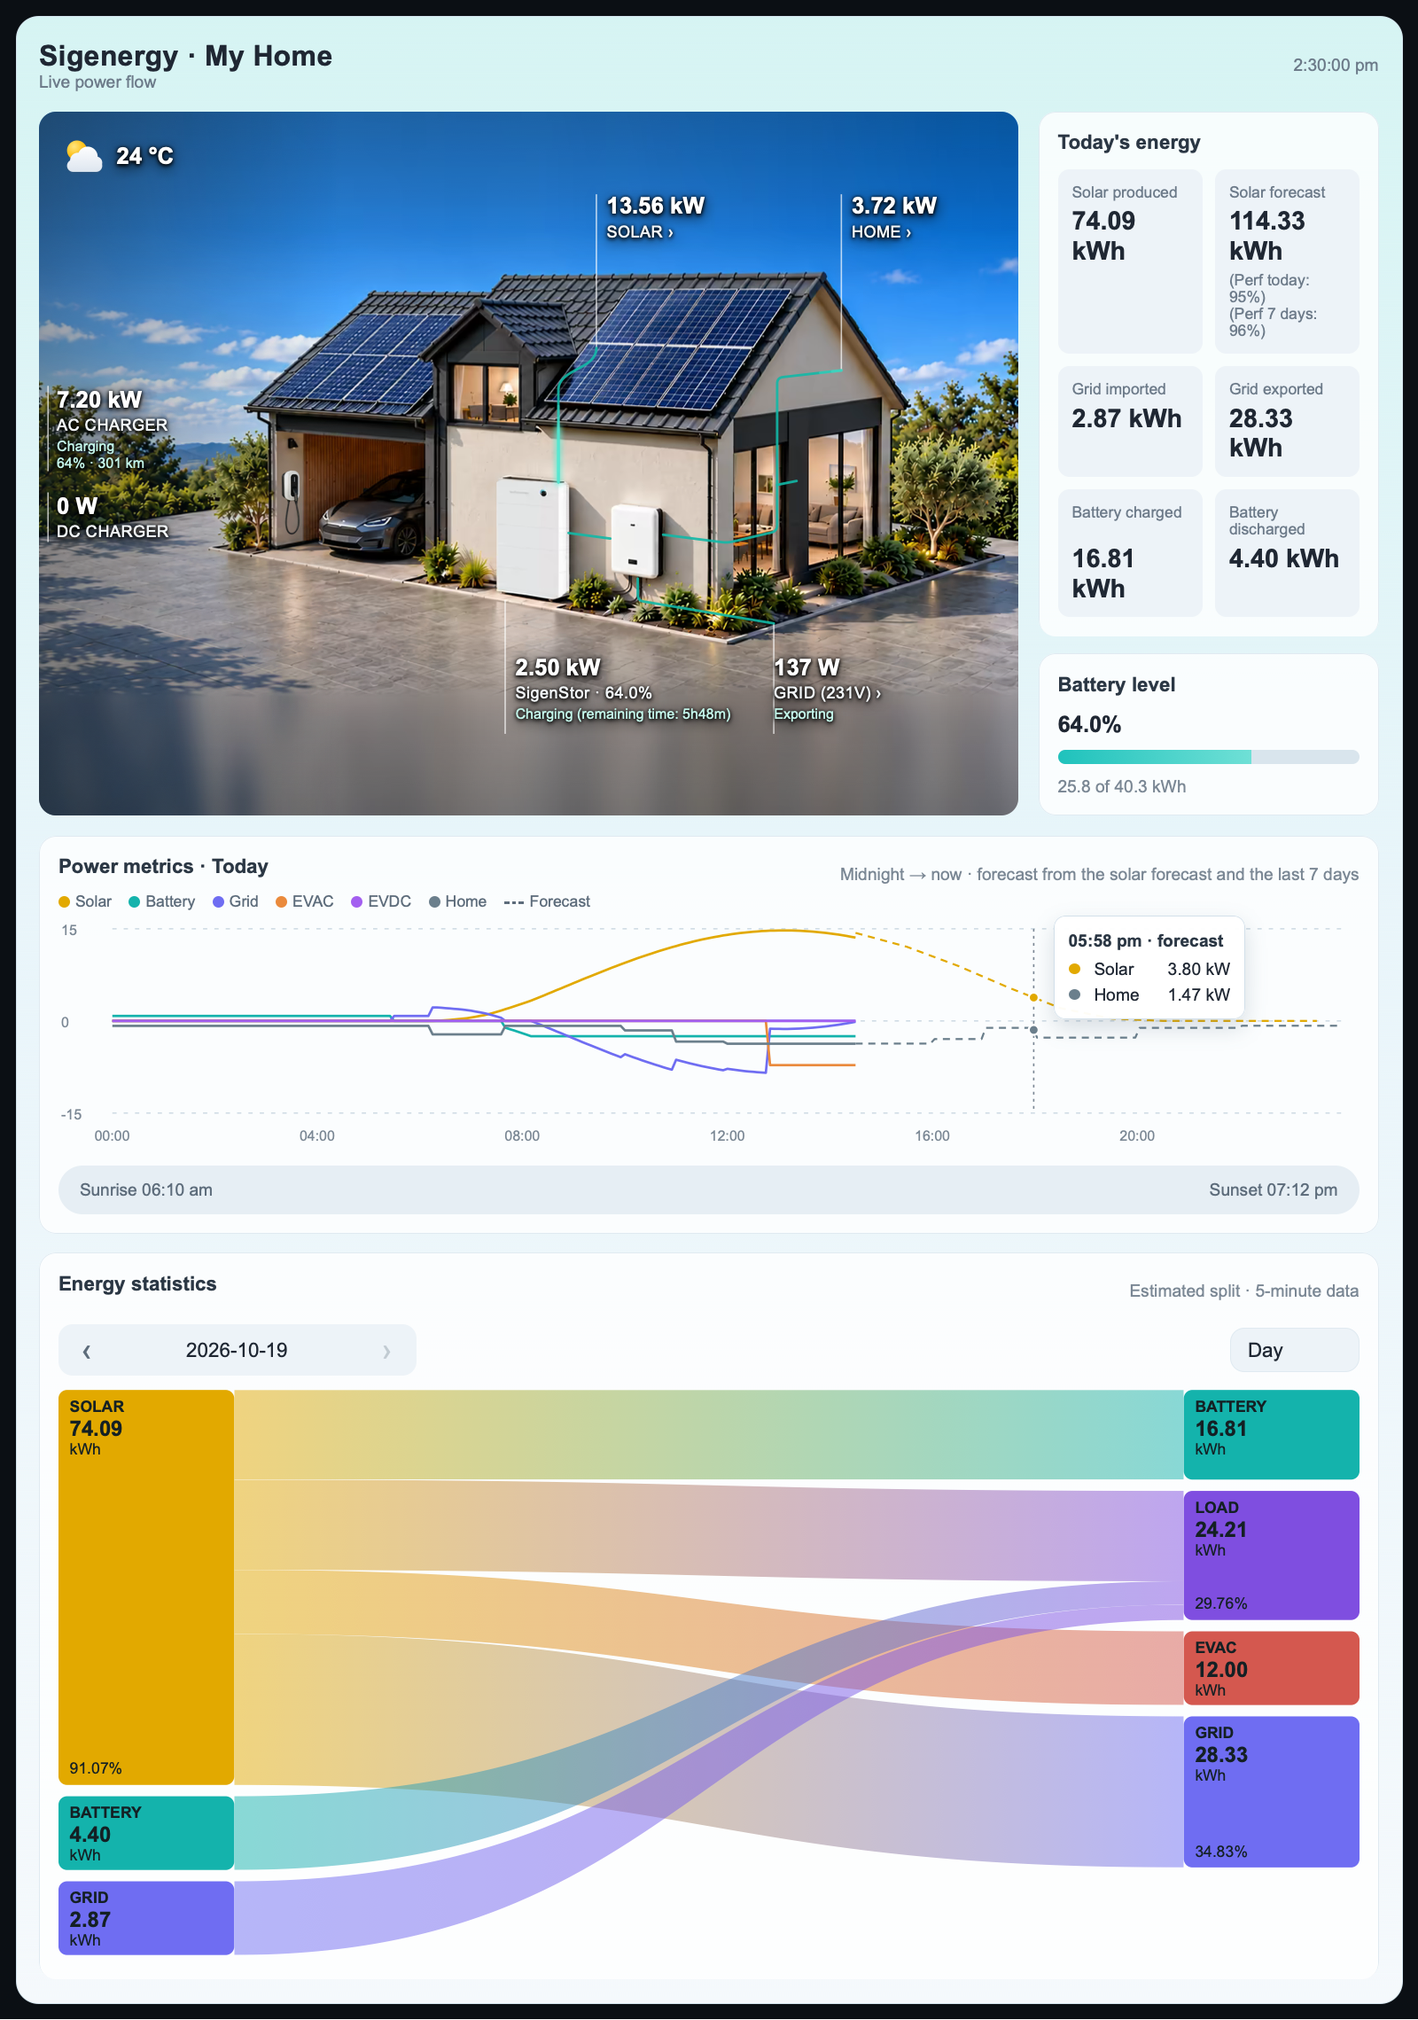
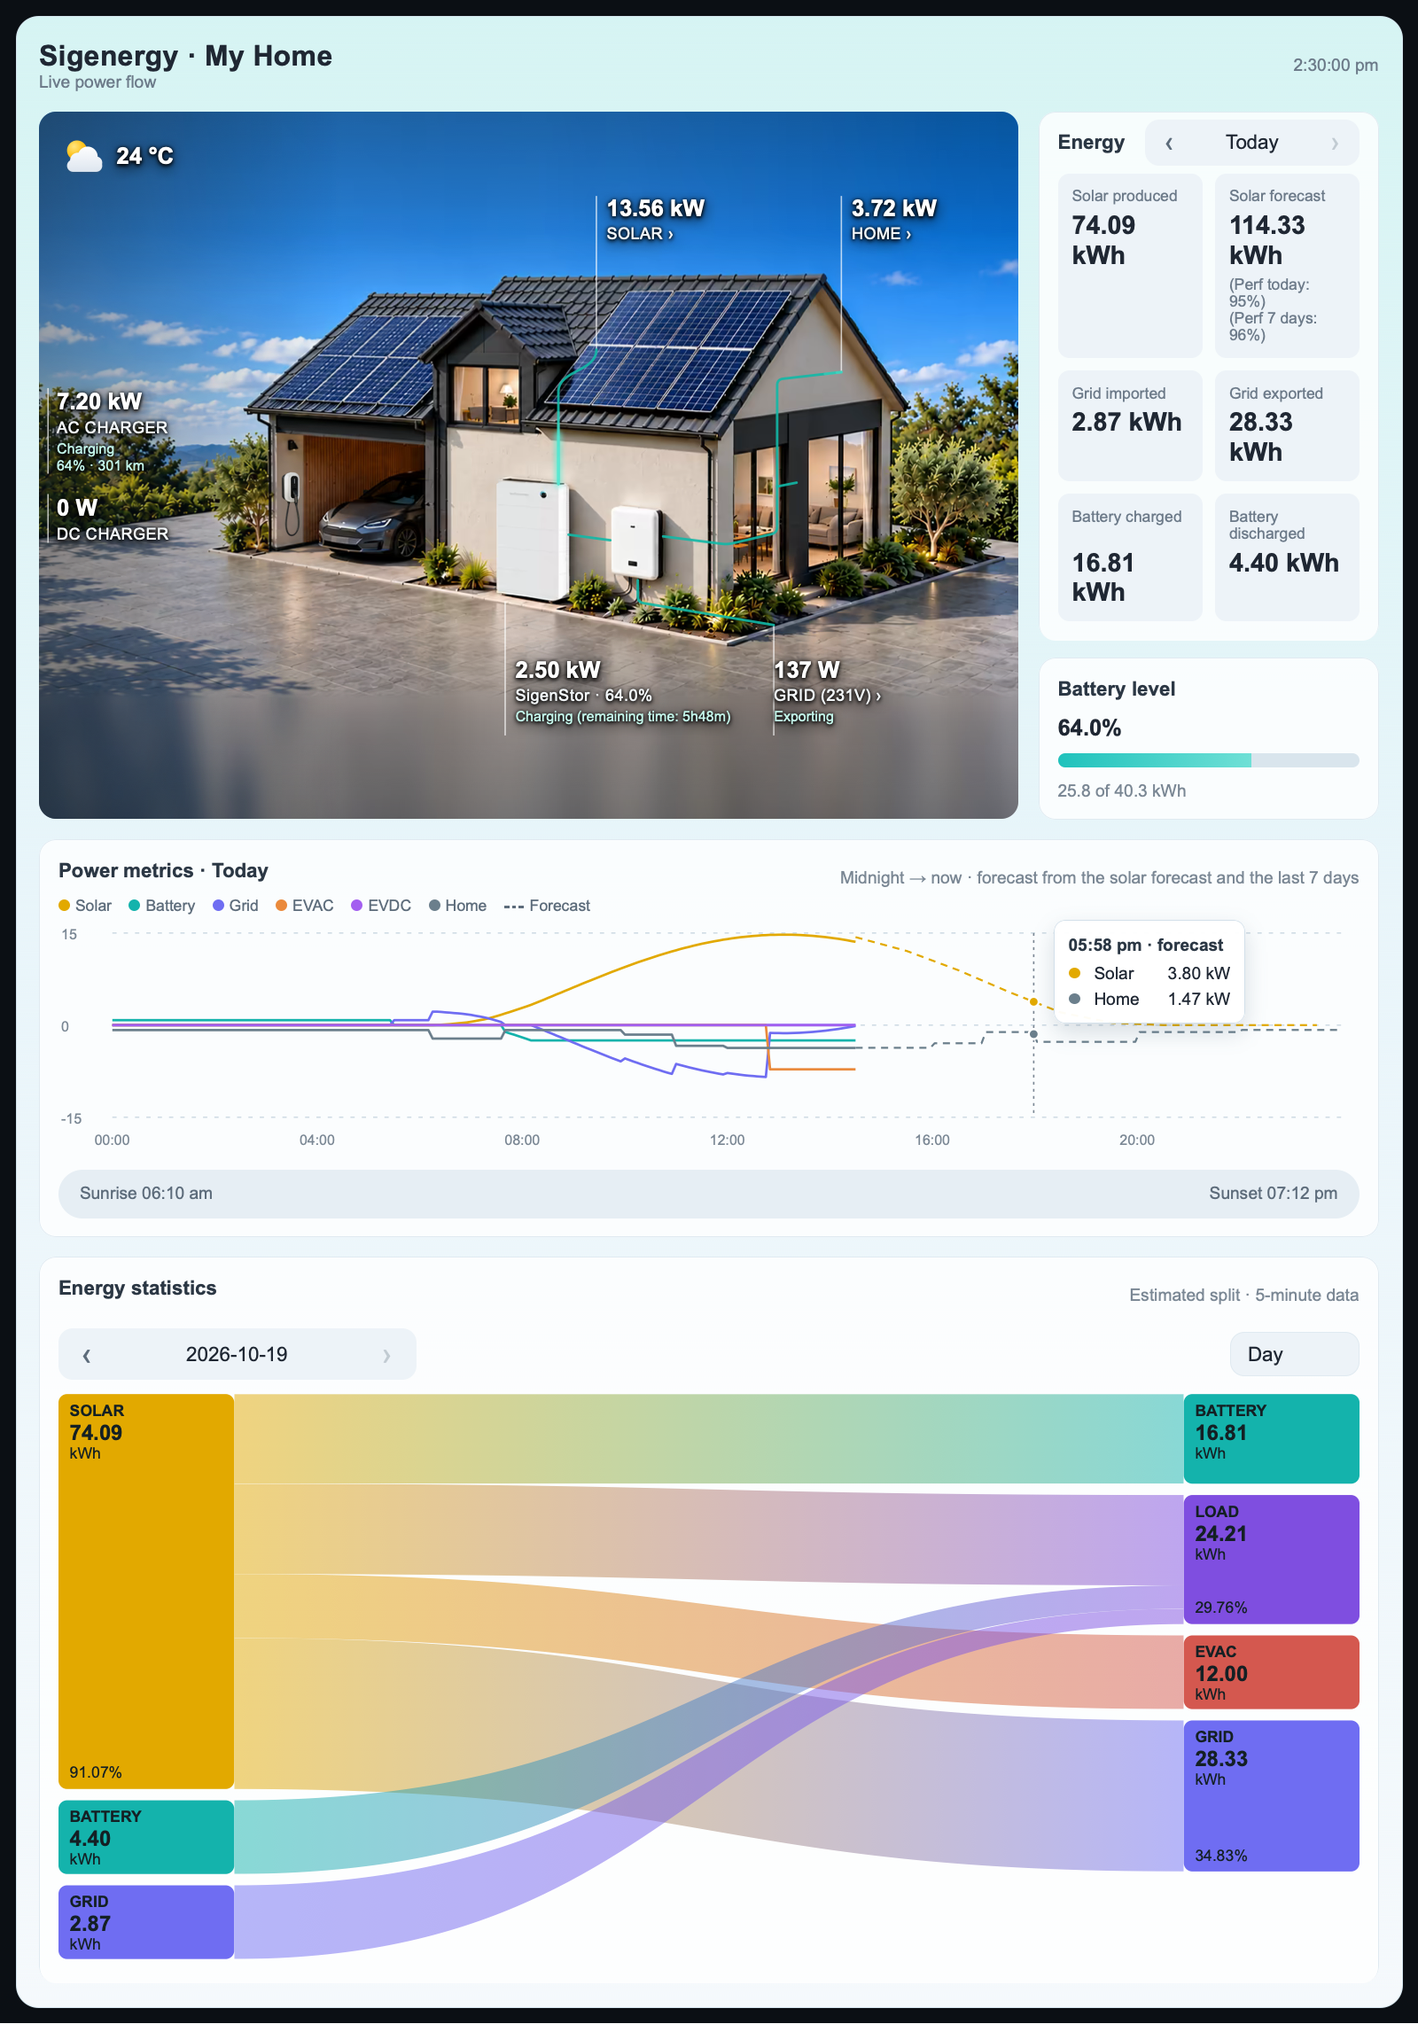
Browse previous days in the daily energy panel
The daily energy panel gets the same ‹ date › control as Energy statistics,
on the title's line; the title becomes "Energy", since the desktop sidebar is
too narrow for "Today's energy" and the control side by side. The control
reads "Today" for today and the date otherwise; its label keeps a date's
width, so the arrows don't move.

On a past day each tile shows the sum of the recorder's hourly statistics of
its own daily sensor over that day, the solar total adding the third-party
inverter's as today's does. The Solar forecast tile shows the last forecast
recorded that day and that day's performance against it, as long as the
recorder still holds the forecast entity's history; it can't be tapped then,
its chart covering today only. The date is independent of Energy statistics'.

Refresh the main screenshots for the new header.

diff --git a/sigenergy-flow-card.js b/sigenergy-flow-card.js
@@ -482,6 +482,7 @@ class SigenergyFlowCard extends HTMLElement {
         const today = new Date().toLocaleDateString('en-CA', { timeZone: this._zone });
         if (!previous || this._day !== today) {
             this._day = today;
+            this._dayControls();
             this._loadHistory();
             this._loadForecast();
             this._loadForecastWeek();
@@ -546,8 +547,9 @@ class SigenergyFlowCard extends HTMLElement {
       /* Each row of tiles is five tracks: space, label, value, notes, space, then the gap to the next row. The tiles share
          them (subgrid), so labels and values line up across a row however they wrap. */
       .stats{display:grid;grid-template-columns:repeat(2,minmax(0,1fr));column-gap:9px;grid-template-rows:repeat(3,minmax(10px,1fr) auto auto auto minmax(10px,1fr) 9px);margin-bottom:-9px}
+      .dayhead{display:flex;flex-wrap:wrap;align-items:center;justify-content:space-between;gap:6px 8px;margin:-8px 0 6px}.dayhead h3{margin:0}.daynav{padding:2px}.statnav.daynav span{min-width:5.5em;padding:0 2px}.statnav.daynav button{width:28px;height:26px;line-height:26px;font-size:18px}
       .sidebar.fill>.panel:first-child{flex:1;display:flex;flex-direction:column}.sidebar.fill .stats{flex:1}.stat.wide{grid-column:1/-1}
-      .stat{all:unset;box-sizing:border-box;background:var(--tile);border-radius:8px;padding:10px;cursor:pointer;transition:background .2s}.stat:hover{background:var(--tile-hover)}.stat:focus-visible{outline:2px solid #71d3d1}.stat small{font-size:11px;color:var(--tile-sub);display:block}.stat b{font-size:18px;display:block;margin-top:4px}#forecastPerf{margin-top:4px}#forecastPerf span{display:block}
+      .stat{all:unset;box-sizing:border-box;background:var(--tile);border-radius:8px;padding:10px;cursor:pointer;transition:background .2s}.stat:hover{background:var(--tile-hover)}.stat[disabled]{cursor:default}.stat[disabled]:hover{background:var(--tile)}.stat:focus-visible{outline:2px solid #71d3d1}.stat small{font-size:11px;color:var(--tile-sub);display:block}.stat b{font-size:18px;display:block;margin-top:4px}#forecastPerf{margin-top:4px}#forecastPerf span{display:block}
       .stat{grid-row-end:span 5;display:grid;grid-template-rows:minmax(10px,1fr) auto auto auto minmax(10px,1fr);grid-template-rows:subgrid;padding-block:0}
       .stat>small:first-child{grid-row:2}.stat>b{grid-row:3}#forecastPerf{grid-row:4}
       .link{all:unset;box-sizing:border-box;display:block;width:100%;cursor:pointer;border-radius:6px}.link:hover{filter:brightness(1.2)}.link:focus-visible{outline:2px solid #71d3d1}
@@ -628,7 +630,7 @@ class SigenergyFlowCard extends HTMLElement {
           <div class="node" id="dcNode"><button id="dcButton" title="Adjust DC charging power limit"><strong id="dc">—</strong><small>DC CHARGER<span id="dcGear"> ⚙</span></small><em id="dcSoc"></em><em id="dcLifetime" class="lifetime stack"></em></button></div>
         </div>
       </div></section><aside class="sidebar fill">
-        <section class="panel"><h3>Today's energy</h3><div class="stats"${battery ? '' : ' style="grid-template-rows:repeat(2,minmax(10px,1fr) auto auto auto minmax(10px,1fr) 9px)"'}>
+        <section class="panel"><div class="dayhead"><h3>Energy</h3><div class="statnav daynav"><button id="dayPrev" title="Previous day" aria-label="Previous day">‹</button><span id="dayDate">—</span><button id="dayNext" title="Next day" aria-label="Next day">›</button></div></div><div class="stats"${battery ? '' : ' style="grid-template-rows:repeat(2,minmax(10px,1fr) auto auto auto minmax(10px,1fr) 9px)"'}>
           ${DAILY_TILES.filter(([, key]) => battery || !BATTERY_KEYS.has(key)).map(([id, , label], i) => `<button class="stat" style="grid-row-start:${6 * Math.floor((i && i + 1) / 2) + 1}"><small>${label}</small><b id="${id}">—</b></button>`
               + (id === 'dayPv' ? '<button class="stat" id="forecastStat" style="grid-row-start:1" hidden><small>Solar forecast</small><b id="dayForecast">—</b><small id="forecastPerf"></small></button>' : '')).join('')}
         </div></section>${battery ? `<section class="panel"><h3>Battery level</h3><button class="link" id="socLevel"><strong id="socLarge">—</strong><div class="socbar"><div class="socfill" id="socFill"></div></div></button><button class="link muted" id="capacity" title="Show stored energy today"><span id="capacityText"></span></button></section>` : ''}
@@ -748,6 +750,7 @@ class SigenergyFlowCard extends HTMLElement {
         this._id('weatherButton').addEventListener('click', () => this._moreInfo(this._ent('weather')));
         this._weatherKey = null;
         this._wireStatistics();
+        this._wireDays();
         if (this._flowStates) for (const id of Object.keys(this._flowStates)) this._applyFlowClass(id);
     }
     _observeCharts() {
@@ -1235,12 +1238,23 @@ class SigenergyFlowCard extends HTMLElement {
             const live = this._num(recorded.id), points = recorded.points;
             if (live !== null && live !== points[points.length - 1].v) points.push({ t: now, v: live });
         }
+        const tile = this._id('forecastStat'), past = this._past;
+        // A past day: its forecast and its production against it; the dialog charts today only.
+        tile.disabled = !!past;
+        if (past) {
+            const actual = past.values?.get('dayPv') ?? null, forecast = past.forecast ?? null;
+            tile.hidden = forecast === null;
+            this._id('dayPv').closest('.stat').classList.toggle('wide', tile.hidden);
+            if (tile.hidden) return;
+            this._text('dayForecast', this._energy(forecast));
+            this._parts('forecastPerf', [actual !== null && forecast >= .1 ? `(Perf: ${Math.round(actual / forecast * 100)}%)` : '']);
+            return;
+        }
         let total = this._scaled(id);
         const expected = id ? this._forecastUpTo(now) : null;
         if (id && hours) total ??= [...hours.values()].reduce((a, b) => a + b, 0);
         const average = id && total === null ? this._pvWeekAverage ?? null : null;
         total ??= average;
-        const tile = this._id('forecastStat');
         tile.hidden = total === null;
         this._id('dayPv').closest('.stat').classList.toggle('wide', tile.hidden);
         if (tile.hidden) return;
@@ -1397,8 +1411,8 @@ class SigenergyFlowCard extends HTMLElement {
         }));
     }
     // Recorded states of [ids] from [start] (today's midnight in Home Assistant's time zone) until now.
-    async _history(ids, start = zoneMidnight(Date.now(), this._zone)) {
-        const query = `history/period/${encodeURIComponent(start.toISOString())}?filter_entity_id=${encodeURIComponent(ids.join(','))}&end_time=${encodeURIComponent(new Date().toISOString())}&minimal_response&no_attributes`;
+    async _history(ids, start = zoneMidnight(Date.now(), this._zone), end = new Date()) {
+        const query = `history/period/${encodeURIComponent(start.toISOString())}?filter_entity_id=${encodeURIComponent(ids.join(','))}&end_time=${encodeURIComponent(end.toISOString())}&minimal_response&no_attributes`;
         return { start: start.getTime(), data: await this._hass.callApi('GET', query) };
     }
     // A dialog's chart of today's history and its status: [toSeries] turns each id's points into the chart's series.
@@ -1608,15 +1622,7 @@ class SigenergyFlowCard extends HTMLElement {
         const dcState = dc === null ? '' : dc > 0.025 ? 'Charging' : dc < -0.025 ? 'Discharging' : '';
         const dcSocText = dcsoc === null || (dcsoc === 0 && !dcState) ? '' : `Vehicle SOC ${dcsoc.toFixed(0)}%`;
         this._parts('dcSoc', [dcState, dcSocText]);
-        for (const [el, key, , third] of DAILY_TILES) {
-            const id = e(key), tile = this._id(el)?.closest('.stat');
-            if (!tile) continue;
-            tile.hidden = !id;
-            if (!id) continue;
-            this._text(el, this._energy(third ? this._pvTotal(key, third) : this._scaled(id)));
-            tile.dataset.entity = id;
-        }
-        this._updateForecastTile();
+        this._updateDaily();
         if (this.config.battery_present) {
             this._id('socLevel').dataset.entity = socEntity ?? '';
             this._socEntity = socEntity;
@@ -1717,6 +1723,63 @@ class SigenergyFlowCard extends HTMLElement {
         });
         this._statControls();
         this._drawStat();
+    }
+    // Today's energy shows today live, or a past day: [_past.date] is its midnight, null for today.
+    _wireDays() {
+        const step = direction => {
+            const today = zoneMidnight(Date.now(), this._zone), date = statStep('Day', this._past?.date ?? today, direction, this._zone);
+            this._past = date < today ? { date } : null;
+            this._dayControls();
+            this._updateDaily();
+            this._loadDay();
+        };
+        this._id('dayPrev').addEventListener('click', () => step(-1));
+        this._id('dayNext').addEventListener('click', () => step(1));
+        this._dayControls();
+    }
+    _dayControls() {
+        const past = this._past ??= null;
+        this._text('dayDate', past ? statLabel('Day', past.date, this._zone) : 'Today');
+        this._id('dayNext').disabled = !past;
+    }
+    _updateDaily() {
+        const past = this._past;
+        for (const [el, key, , third] of DAILY_TILES) {
+            const id = this._ent(key), tile = this._id(el)?.closest('.stat');
+            if (!tile) continue;
+            tile.hidden = !id;
+            if (!id) continue;
+            this._text(el, this._energy(past ? past.values?.get(el) ?? null : third ? this._pvTotal(key, third) : this._scaled(id)));
+            tile.dataset.entity = id;
+        }
+        this._updateForecastTile();
+    }
+    // A past day's totals: each tile's daily counter's recorder statistics over the day (the solar total adds the
+    // third-party inverter's, as today's does), and the day's solar forecast, the last state its entity recorded that day.
+    async _loadDay() {
+        const past = this._past;
+        if (!past || !this._hass) return;
+        const [start, end] = statWindow('Day', past.date, this._zone), forecastId = this._ent('solar_forecast_today');
+        const tiles = DAILY_TILES.map(([el, key, , third]) => [el, (third ? this._pvSources(key, third) : [this._ent(key)]).filter(id => id && this._has(id))]);
+        const ids = [...new Set(tiles.flatMap(([, list]) => list))];
+        try {
+            const [statistics, history] = await Promise.all([
+                ids.length ? this._hass.callWS({ type: 'recorder/statistics_during_period', start_time: start.toISOString(), end_time: end.toISOString(), statistic_ids: ids, period: 'hour', types: ['change'] }) : {},
+                forecastId && this._has(forecastId) ? this._history([forecastId], start, end) : null,
+            ]);
+            if (past !== this._past) return;
+            const change = id => statistics?.[id]?.length ? statistics[id].reduce((sum, row) => sum + Math.max(0, Number(row.change) || 0), 0) * this._factor(id) : null;
+            past.values = new Map(tiles.map(([el, list]) => {
+                const [own, ...rest] = list.map(change);
+                return [el, own === null || own === undefined ? null : rest.reduce((sum, v) => sum + (v ?? 0), own)];
+            }));
+            const points = history ? this._series(history.data, [forecastId])[0].filter(p => p.t < end.getTime()) : [];
+            past.forecast = points.length ? points[points.length - 1].v * this._factor(forecastId) : null;
+        } catch (e) {
+            if (past !== this._past) return;
+            Object.assign(past, { values: new Map(), forecast: null });
+        }
+        this._updateDaily();
     }
     _statCurrent() {
         return this._stat.range === 'Lifetime' || statWindow(this._stat.range, this._stat.date, this._zone)[1] > new Date();

diff --git a/README.md b/README.md
@@ -7,7 +7,7 @@ A standalone Home Assistant Lovelace card that recreates the SigenCloud / mySige
 - The current weather at the top left, as in Sigenergy's app: an icon for the condition (with a moon instead of the sun after sunset) and the temperature, from Home Assistant's forecast entity. Tap it for the forecast.
 - Power readings for solar, home, SigenStor (with battery state of charge), grid, and the AC and DC chargers when present.
 - The battery's remaining time under SigenStor, as in Sigenergy's app: the time to its charge or discharge cut-off SOC at the current power (e.g. "Discharging (remaining time: 17h50m)"), or, while idle, how long it would run the home in a power cut, down to its Backup SOC: the home's consumption plus the inverters' and system's own base load, which the card learns (and keeps in the browser) while the battery alone supplies the home, typically at night. Idle shows no time until it has been learnt. Enable the Sigenergy integration's cut-off and backup SOC entities for exact figures; without them it counts to 100% and 0%.
-- Today's energy statistics (solar produced and forecast, grid imported and exported, battery charged and discharged) and a battery level panel. Tap any statistic or the battery level to open that sensor's details and history, or the stored energy (e.g. 4.4 of 40.3 kWh) for a chart of the energy held in the battery today.
+- Today's energy statistics (solar produced and forecast, grid imported and exported, battery charged and discharged) and a battery level panel. The ‹ › arrows beside **Energy** step back to previous days, read from the recorder's statistics of the same daily sensors (they need `state_class: total_increasing`, which the Sigenergy integrations set); the Solar forecast tile then shows that day's last recorded forecast and **(Perf: N%)**, the day's production against it, while the forecast entity's history lasts (10 days by default). Tap any statistic or the battery level to open that sensor's details and history, or the stored energy (e.g. 4.4 of 40.3 kWh) for a chart of the energy held in the battery today.
 - Power metrics chart of the day, its time axis running from midnight to midnight as in Sigenergy's app and its lines up to now, with sunrise and sunset times for your Home Assistant location. As in Sigenergy's app, power supplied (solar, battery discharging, grid import) is plotted above zero and power consumed (home, battery charging, grid export, EV charging) below. Hover (or tap) the chart to see every value at that time. The rest of the day shows a dashed solar and home forecast (see [Forecast](#forecast)).
 - Tap **SOLAR** for per-string PV details (voltage, current, power, today's and lifetime production) and a chart of each string's power today. The strings' lifetime energy is counted by the integration from their power and can miss production; the **Total** is the inverter's own counter, and a note shows when the strings don't add up to it.
 - Tap **HOME** for a live breakdown of power usage across the entities you list, sorted from highest to lowest.
@@ -375,6 +375,8 @@ The **Solar forecast** tile shows today's solar forecast, as last revised, from 
 - **(Perf 7 days: N%)**: the solar produced over the previous 7 days, today left out, against each day's last recorded forecast. It needs the forecast entity's history (the recorder keeps 10 days by default) and the statistics of `stat_pv`. Days missing either are left out.
 
 If the `solar_forecast_today` entity doesn't exist, the tile shows the total of Home Assistant's solar forecast instead, without the 7 days. Without that either, it shows the average daily production of the last 7 days, from the statistics of `stat_pv`, marked **(7-day average)** and without the performance figures. With neither, or with `solar_forecast_today: false`, **Solar produced** takes the whole row.
+
+On a previous day (the ‹ arrow beside **Energy**), the tile shows that day's last recorded forecast and **(Perf: N%)**, the day's solar produced against it. It needs the forecast entity's history for that day; without it, **Solar produced** takes the whole row. The tile doesn't open the chart then.
 
 ### Energy statistics
 
